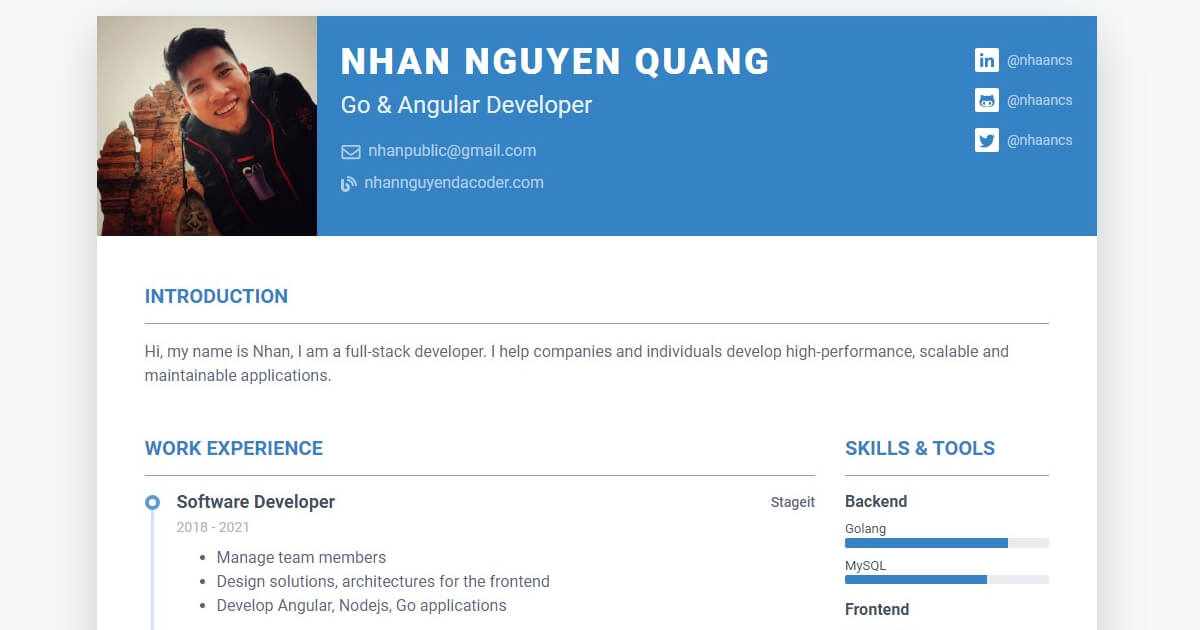
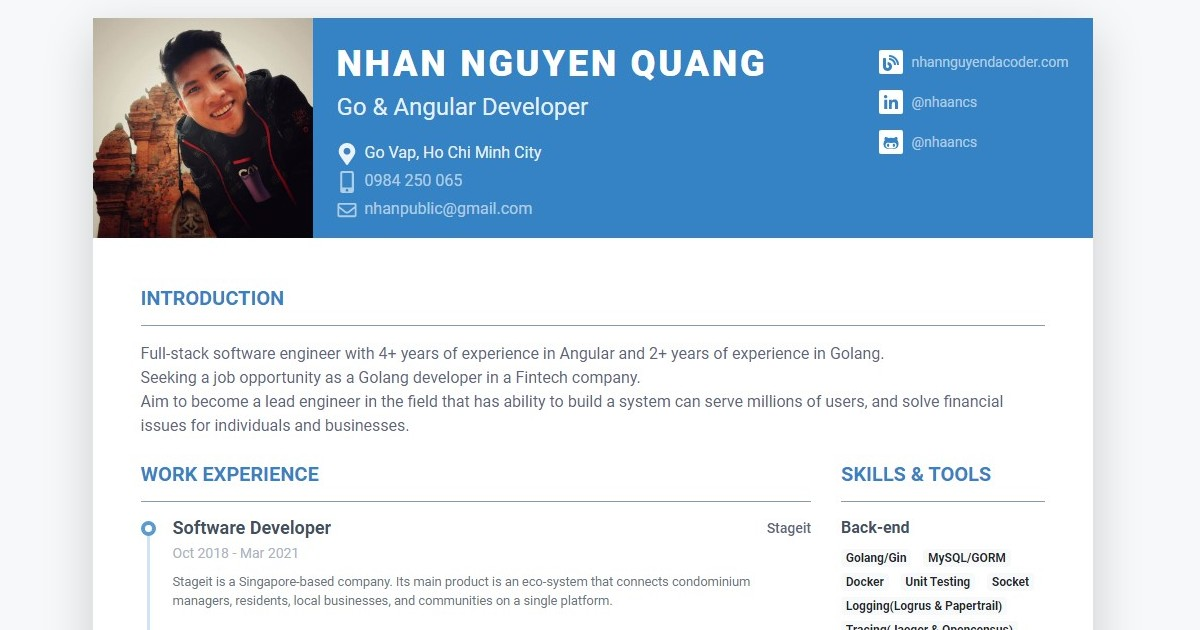
update share image, desc

diff --git a/index.html b/index.html
@@ -7,7 +7,7 @@
     <meta charset="utf-8">
     <meta http-equiv="X-UA-Compatible" content="IE=edge">
     <meta name="viewport" content="width=device-width, initial-scale=1.0">
-    <meta name="description" content="Hi, my name is Nhan, I am a full-stack developer. I help companies and individuals develop high-performance, scalable and maintainable applications.">
+    <meta name="description" content="Full-stack software engineer with 4+ years of experience in Angular and 2+ years of experience in Golang.">
 	<meta name="author" content="Nhan Nguyen"> 
 	
 	<meta name="twitter:card" content="summary_large_image">
@@ -15,7 +15,7 @@
 	<meta property="og:site_name" content="Nhan Nguyen - Go & Angular Developer">
 	<meta property="og:url" content="https://nhaancs.github.io/" />
 	<meta property="og:title" content="Nhan Nguyen - Go & Angular Developer" />
-	<meta property="og:description" content="Hi, my name is Nhan, I am a full-stack developer. I help companies and individuals develop high-performance, scalable and maintainable applications." />
+	<meta property="og:description" content="Full-stack software engineer with 4+ years of experience in Angular and 2+ years of experience in Golang." />
 	<meta property="og:image" content="https://raw.githubusercontent.com/nhaancs/nhaancs.github.io/master/assets/images/share-img.jpg" />
     <link rel="shortcut icon" href="favicon.ico"> 
     <!-- Google Font -->
